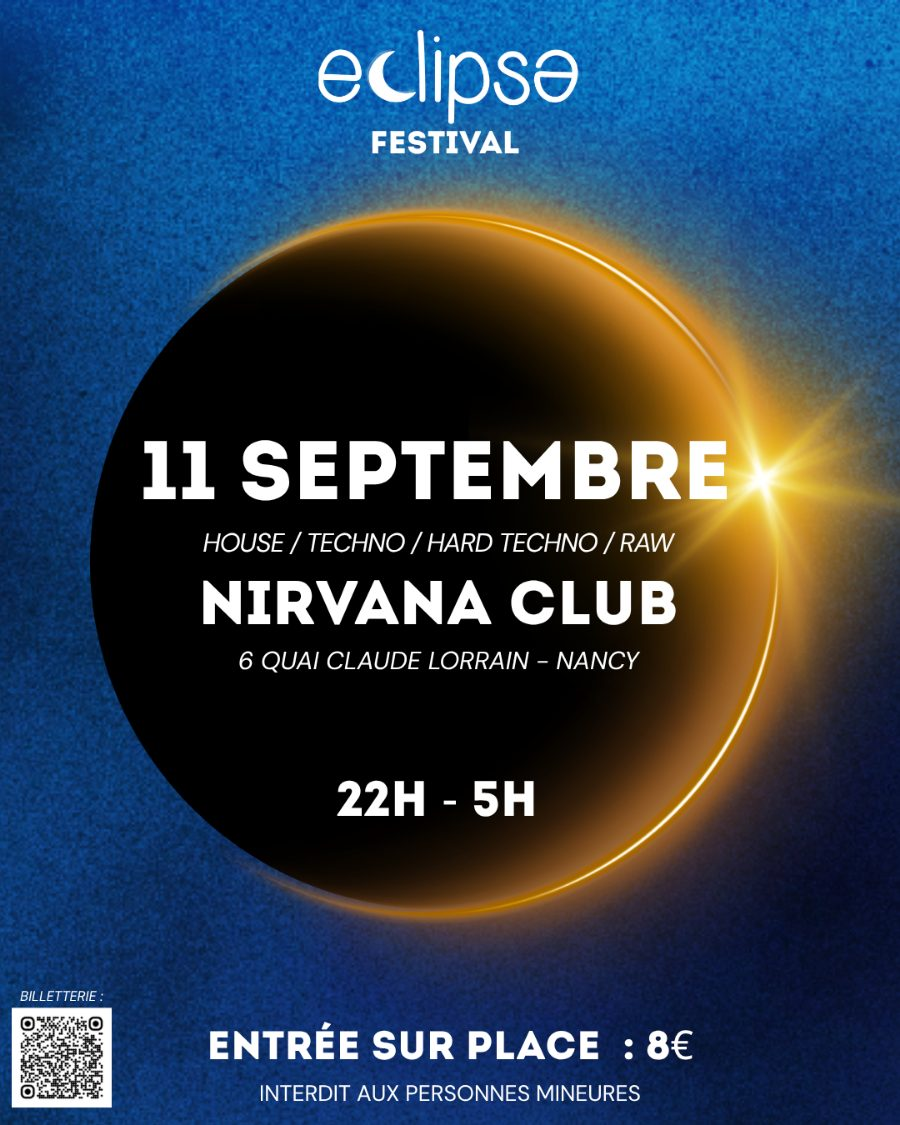
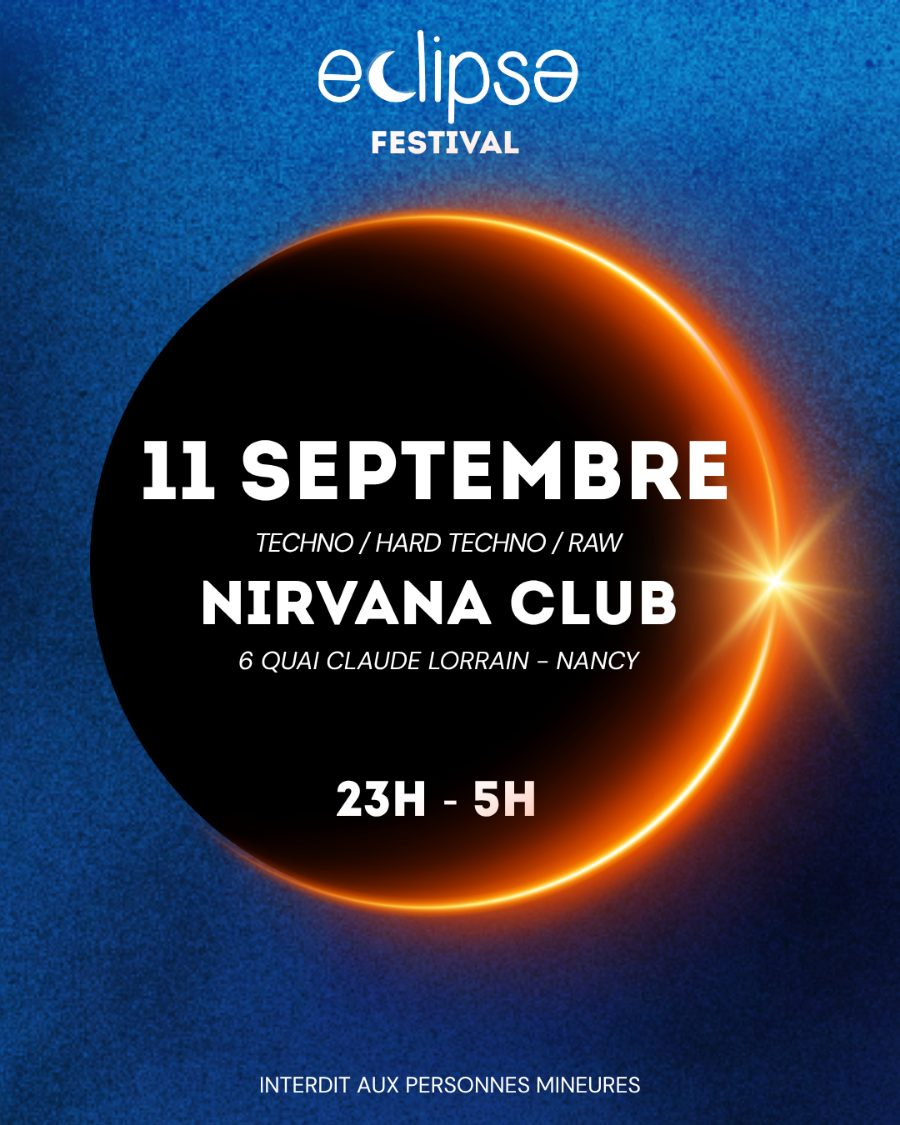
Eclipse: keep a single September poster, describe Hélios as a personified eclipse
Claude-Session: https://claude.ai/code/session_014iEpDnRbBnU4ZPMHYeBLPL

diff --git a/js/pages.js b/js/pages.js
@@ -100,8 +100,7 @@ window.PAGES = {
           posters: [
             { src: "assets/eclipse/sept-affiche.jpg", alt: { fr: "Affiche Eclipse Festival, 11 septembre", en: "Eclipse Festival poster, September 11" } },
             { src: "assets/eclipse/sept-lineup.jpg", alt: { fr: "Line-up du 11 septembre", en: "September 11 line-up" } },
-            { src: "assets/eclipse/sept-billetterie.jpg", alt: { fr: "Visuel « La billetterie est ouverte »", en: "“Ticketing is open” visual" } },
-            { src: "assets/eclipse/sept-affiche-2.jpg", alt: { fr: "Affiche Eclipse, 11 septembre", en: "Eclipse poster, September 11" } }
+            { src: "assets/eclipse/sept-billetterie.jpg", alt: { fr: "Visuel « La billetterie est ouverte »", en: "“Ticketing is open” visual" } }
           ]
         }
       ],
@@ -135,12 +134,12 @@ window.PAGES = {
       ],
       title: { fr: "Voici Hélios", en: "Meet Hélios" },
       text: {
-        fr: "Une petite lune à lunettes, un éclat de soleil dans le dos, et toujours le casque sur les oreilles. Je l'ai créé pour donner un visage à Eclipse : il porte désormais nos affiches, nos réseaux et nos goodies.",
-        en: "A little moon in sunglasses, a burst of sun behind him, and headphones always on. I created him to give Eclipse a face: he now fronts our posters, social media and merch."
+        fr: "Hélios, c'est une éclipse personnifiée : la lune devant, le soleil qui dépasse derrière, des lunettes et le casque toujours sur les oreilles. Je l'ai créé pour donner un visage à Eclipse : il porte désormais nos affiches, nos réseaux et nos goodies.",
+        en: "Hélios is an eclipse brought to life: the moon in front, the sun peeking out behind, sunglasses on and headphones always on. I created him to give Eclipse a face: he now fronts our posters, social media and merch."
       },
       bubble: { fr: "Salut, moi c'est Hélios !", en: "Hi, I'm Hélios!" },
       faq: [
-        { q: { fr: "Qui est Hélios ?", en: "Who is Hélios?" }, a: { fr: "La mascotte d'Eclipse : une lune qui a croqué un bout de soleil, fan de techno, de hard techno et de raw.", en: "Eclipse's mascot: a moon that took a bite of the sun, into techno, hard techno and raw." }, img: "assets/eclipse/mascotte-3.png" },
+        { q: { fr: "Qui est Hélios ?", en: "Who is Hélios?" }, a: { fr: "La mascotte d'Eclipse : une éclipse personnifiée, fan de techno, de hard techno et de raw.", en: "Eclipse's mascot: an eclipse brought to life, into techno, hard techno and raw." }, img: "assets/eclipse/mascotte-3.png" },
         { q: { fr: "Sa mission ?", en: "His mission?" }, a: { fr: "Mettre l'ambiance, annoncer les prochaines dates et rappeler à chacun de passer une soirée safe.", en: "Setting the mood, announcing upcoming dates and reminding everyone to have a safe night." }, img: "assets/eclipse/mascotte.png" },
         { q: { fr: "Où le retrouver ?", en: "Where to find him?" }, a: { fr: "Sur nos affiches, nos réseaux, nos stickers… et bientôt en soirée.", en: "On our posters, social media, stickers… and soon at our nights." }, img: "assets/eclipse/mascotte-2.png" }
       ]
